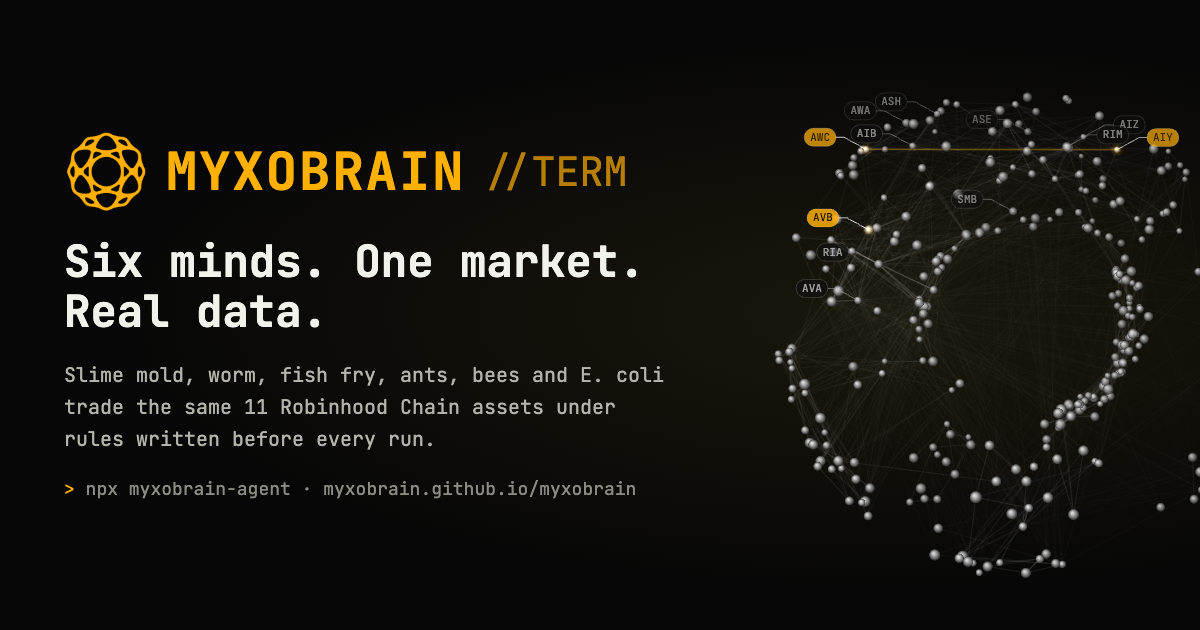
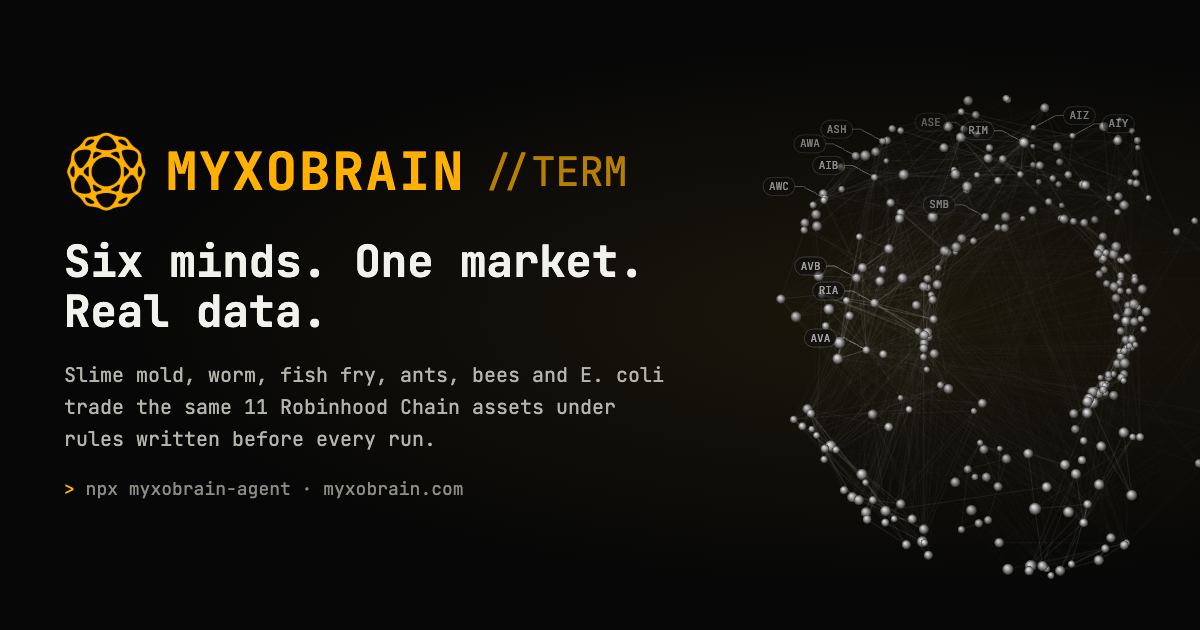
Deploy to myxobrain.com: nginx template and deploy script, links and OG image point at the domain

diff --git a/_src/ui-preview/map/organism.html b/_src/ui-preview/map/organism.html
@@ -1,10 +1,10 @@
 <!doctype html><html lang="en"><head><meta charset="utf-8"><meta name="viewport" content="width=device-width,initial-scale=1">
 <title>PETRI Specimen</title>
 <meta name="description" content="Six minds modeled on real organisms trade the same 11 Robinhood Chain assets under pre-registered rules: slime mold, worm, fish fry, ants, bees and E. coli. Real data, honest results.">
-<meta property="og:type" content="website"><meta property="og:site_name" content="MYXOBRAIN"><meta property="og:url" content="https://myxobrain.github.io/myxobrain/organism">
+<meta property="og:type" content="website"><meta property="og:site_name" content="MYXOBRAIN"><meta property="og:url" content="https://myxobrain.com/organism">
 <meta property="og:title" content="MYXOBRAIN · Specimen"><meta property="og:description" content="Six minds modeled on real organisms trade the same 11 Robinhood Chain assets under pre-registered rules: slime mold, worm, fish fry, ants, bees and E. coli. Real data, honest results.">
-<meta property="og:image" content="https://myxobrain.github.io/myxobrain/og.png"><meta property="og:image:width" content="1200"><meta property="og:image:height" content="630">
-<meta name="twitter:card" content="summary_large_image"><meta name="twitter:title" content="MYXOBRAIN · Specimen"><meta name="twitter:description" content="Six minds modeled on real organisms trade the same 11 Robinhood Chain assets under pre-registered rules: slime mold, worm, fish fry, ants, bees and E. coli. Real data, honest results."><meta name="twitter:image" content="https://myxobrain.github.io/myxobrain/og.png">
+<meta property="og:image" content="https://myxobrain.com/og.png"><meta property="og:image:width" content="1200"><meta property="og:image:height" content="630">
+<meta name="twitter:card" content="summary_large_image"><meta name="twitter:title" content="MYXOBRAIN · Specimen"><meta name="twitter:description" content="Six minds modeled on real organisms trade the same 11 Robinhood Chain assets under pre-registered rules: slime mold, worm, fish fry, ants, bees and E. coli. Real data, honest results."><meta name="twitter:image" content="https://myxobrain.com/og.png">
 <link rel="icon" type="image/png" sizes="32x32" href="brand/icon-32.png"><link rel="icon" type="image/png" sizes="64x64" href="brand/icon-64.png"><link rel="apple-touch-icon" href="brand/icon-180.png">
 <link href="https://fonts.googleapis.com/css2?family=Inter+Tight:wght@400;500;600&family=JetBrains+Mono:wght@400;500;700&display=swap" rel="stylesheet">
 <style>

diff --git a/_src/ui-preview/map/index.html b/_src/ui-preview/map/index.html
@@ -1,9 +1,9 @@
 <!doctype html><html lang="en"><head><meta charset="utf-8"><meta name="viewport" content="width=device-width,initial-scale=1">
 <title>PETRI//TERM</title>
 <meta name="description" content="Six minds modeled on real organisms trade the same 11 Robinhood Chain assets under pre-registered rules: slime mold, worm, fish fry, ants, bees and E. coli. Real data, honest results.">
-<meta property="og:type" content="website"><meta property="og:site_name" content="MYXOBRAIN"><meta property="og:url" content="https://myxobrain.github.io/myxobrain/">
+<meta property="og:type" content="website"><meta property="og:site_name" content="MYXOBRAIN"><meta property="og:url" content="https://myxobrain.com/">
 <meta property="og:title" content="MYXOBRAIN · Six minds, one market"><meta property="og:description" content="Six minds modeled on real organisms trade the same 11 Robinhood Chain assets under pre-registered rules. Real data, honest results.">
-<meta property="og:image" content="https://myxobrain.github.io/myxobrain/og.png"><meta property="og:image:width" content="1200"><meta property="og:image:height" content="630">
+<meta property="og:image" content="https://myxobrain.com/og.png"><meta property="og:image:width" content="1200"><meta property="og:image:height" content="630">
 <meta name="twitter:card" content="summary_large_image"><meta name="twitter:title" content="MYXOBRAIN · Six minds, one market"><meta name="twitter:description" content="Six minds modeled on real organisms trade the same 11 Robinhood Chain assets under pre-registered rules. Real data, honest results.">
 <link rel="icon" type="image/png" sizes="32x32" href="brand/icon-32.png"><link rel="icon" type="image/png" sizes="64x64" href="brand/icon-64.png"><link rel="apple-touch-icon" href="brand/icon-180.png">
 <link href="https://fonts.googleapis.com/css2?family=JetBrains+Mono:wght@400;500;700&display=swap" rel="stylesheet">

diff --git a/_src/ui-preview/map/data.html b/_src/ui-preview/map/data.html
@@ -1,6 +1,6 @@
 <!doctype html><html lang="en"><head><meta charset="utf-8"><meta name="viewport" content="width=device-width,initial-scale=1"><link rel="icon" type="image/png" sizes="32x32" href="brand/icon-32.png"><link rel="icon" type="image/png" sizes="64x64" href="brand/icon-64.png"><link rel="apple-touch-icon" href="brand/icon-180.png">
 <title>PETRI Data</title>
-<meta property="og:image" content="https://myxobrain.github.io/myxobrain/og.png"><meta name="twitter:card" content="summary_large_image">
+<meta property="og:image" content="https://myxobrain.com/og.png"><meta name="twitter:card" content="summary_large_image">
 <link href="https://fonts.googleapis.com/css2?family=Inter+Tight:wght@400;500;600&family=JetBrains+Mono:wght@400;500;700&display=swap" rel="stylesheet">
 <style>
 :root{--bg:#070707;--line:#262622;--ink:#D8D8D2;--dim:#8C8C84;--acc:#FFB000}

diff --git a/_src/ui-preview/map/live.html b/_src/ui-preview/map/live.html
@@ -1,6 +1,6 @@
 <!doctype html><html lang="en"><head><meta charset="utf-8"><meta name="viewport" content="width=device-width,initial-scale=1"><link rel="icon" type="image/png" sizes="32x32" href="brand/icon-32.png"><link rel="icon" type="image/png" sizes="64x64" href="brand/icon-64.png"><link rel="apple-touch-icon" href="brand/icon-180.png">
 <title>PETRI Live</title>
-<meta property="og:image" content="https://myxobrain.github.io/myxobrain/og.png"><meta name="twitter:card" content="summary_large_image">
+<meta property="og:image" content="https://myxobrain.com/og.png"><meta name="twitter:card" content="summary_large_image">
 <link href="https://fonts.googleapis.com/css2?family=Inter+Tight:wght@400;500;600&family=JetBrains+Mono:wght@400;500;700&display=swap" rel="stylesheet">
 <style>
 :root{--bg:#070707;--line:#262622;--ink:#D8D8D2;--dim:#8C8C84;--acc:#FFB000}

diff --git a/README.md b/README.md
@@ -10,7 +10,7 @@
 <p align="center"><b>Six minds. One market. Real data.</b></p>
 
 <p align="center">
-  <a href="https://myxobrain.github.io/myxobrain/"><img src="https://img.shields.io/badge/web-myxobrain.github.io-070707" alt="Website"></a>
+  <a href="https://myxobrain.com/"><img src="https://img.shields.io/badge/web-myxobrain.com-070707" alt="Website"></a>
   <a href="https://www.npmjs.com/package/myxobrain-agent"><img src="https://img.shields.io/npm/v/myxobrain-agent?color=FFB000&labelColor=070707&label=npm" alt="npm"></a>
   <a href="https://github.com/myxobrain/myxobrain-agent"><img src="https://img.shields.io/badge/cli-myxobrain--agent-070707?logo=github" alt="CLI"></a>
   <a href="LICENSE"><img src="https://img.shields.io/badge/license-MIT-555555" alt="MIT"></a>
